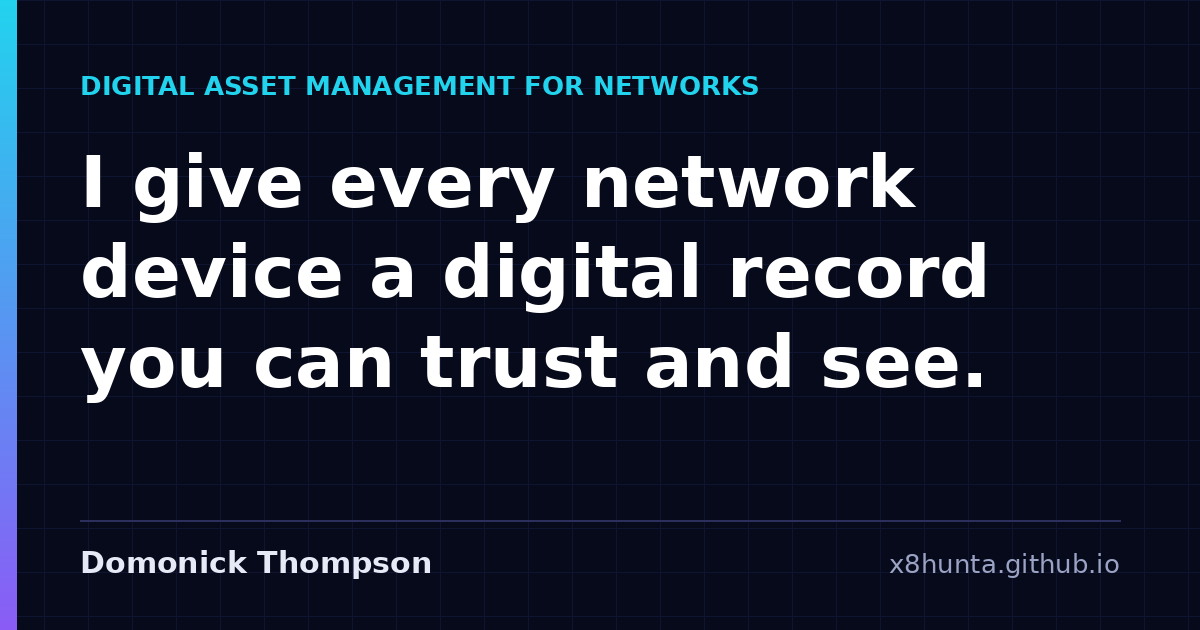
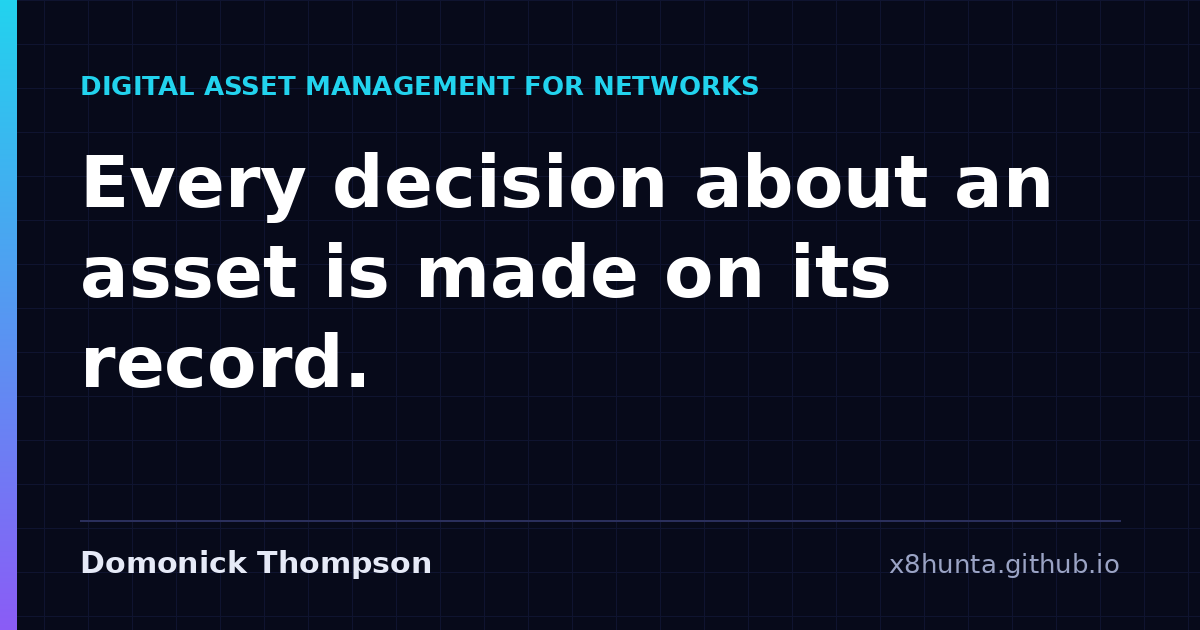
Home: new brand line (every decision about an asset is made on its record)

Changed region(s): [[0.0617, 0.3619, 0.8325, 0.5127], [0.0617, 0.5127, 0.8325, 0.6333], [0.0617, 0.2413, 0.8942, 0.3619]]

diff --git a/index.html b/index.html
@@ -23,8 +23,8 @@
   <nav><a href="index.html" aria-current="page">Home</a><a href="blog/index.html">Blog</a><a href="about.html">About</a><a href="proof.html">Proof</a></nav>
 </header>
 <main>
-<section class="hero"><h1>I give every network device a <span class="grad">digital record</span> you can trust and see.</h1>
-<p>What it is, how it should be set up, and how it&rsquo;s actually running. When those drift apart, my tools catch it, show it on a live map, and keep the evidence so anyone can check.</p>
+<section class="hero"><h1>Every decision about an asset is made on its <span class="grad">record</span>.</h1>
+<p>I fact-check the record, make it accurate, and prove it. For a network device, the record covers what it is, how it should be set up, and how it&rsquo;s actually running. When those drift apart, my tools catch it, show it on a live map, and keep the evidence so anyone can check.</p>
 <p><em>Digital asset management for networks.</em> BSc ICT (Network Engineering and Security). Kingston, Jamaica.</p>
 <p class="pills"><a class="primary" href="proof.html">Check the work</a><a href="mailto:domonickthompson36@gmail.com">Email</a><a href="https://www.linkedin.com/in/domonick-t-a5183040a">LinkedIn</a></p>
 
